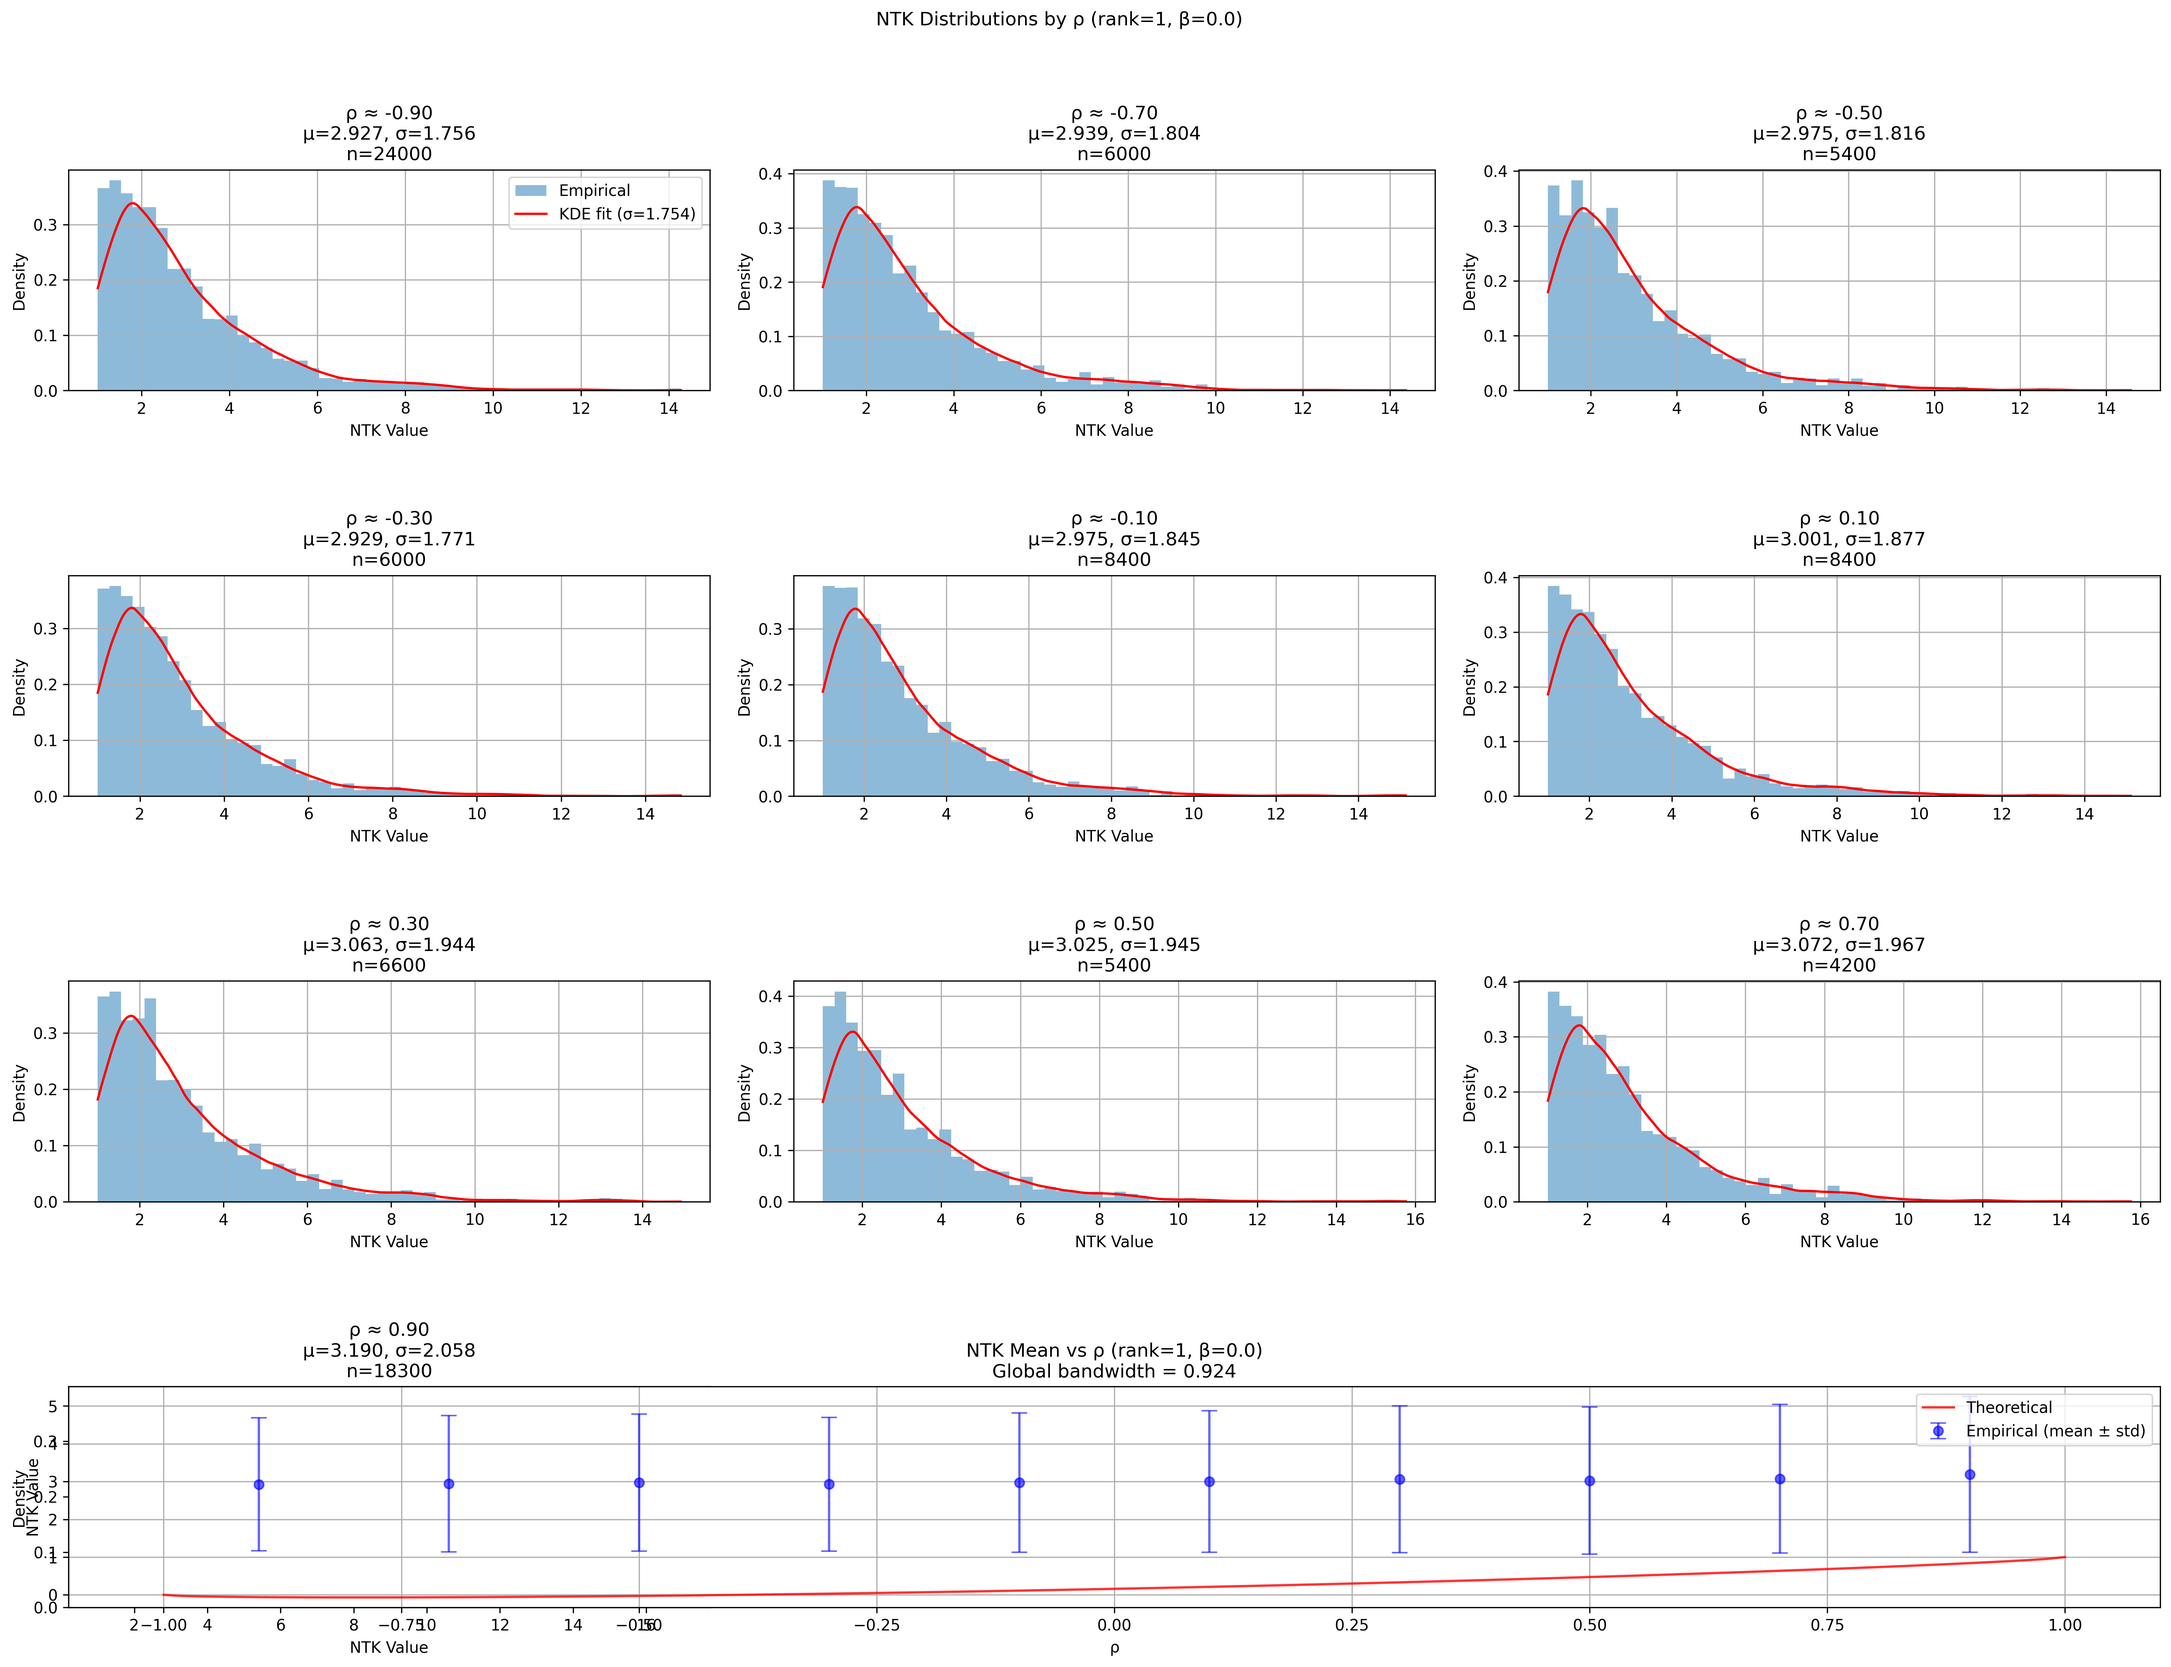
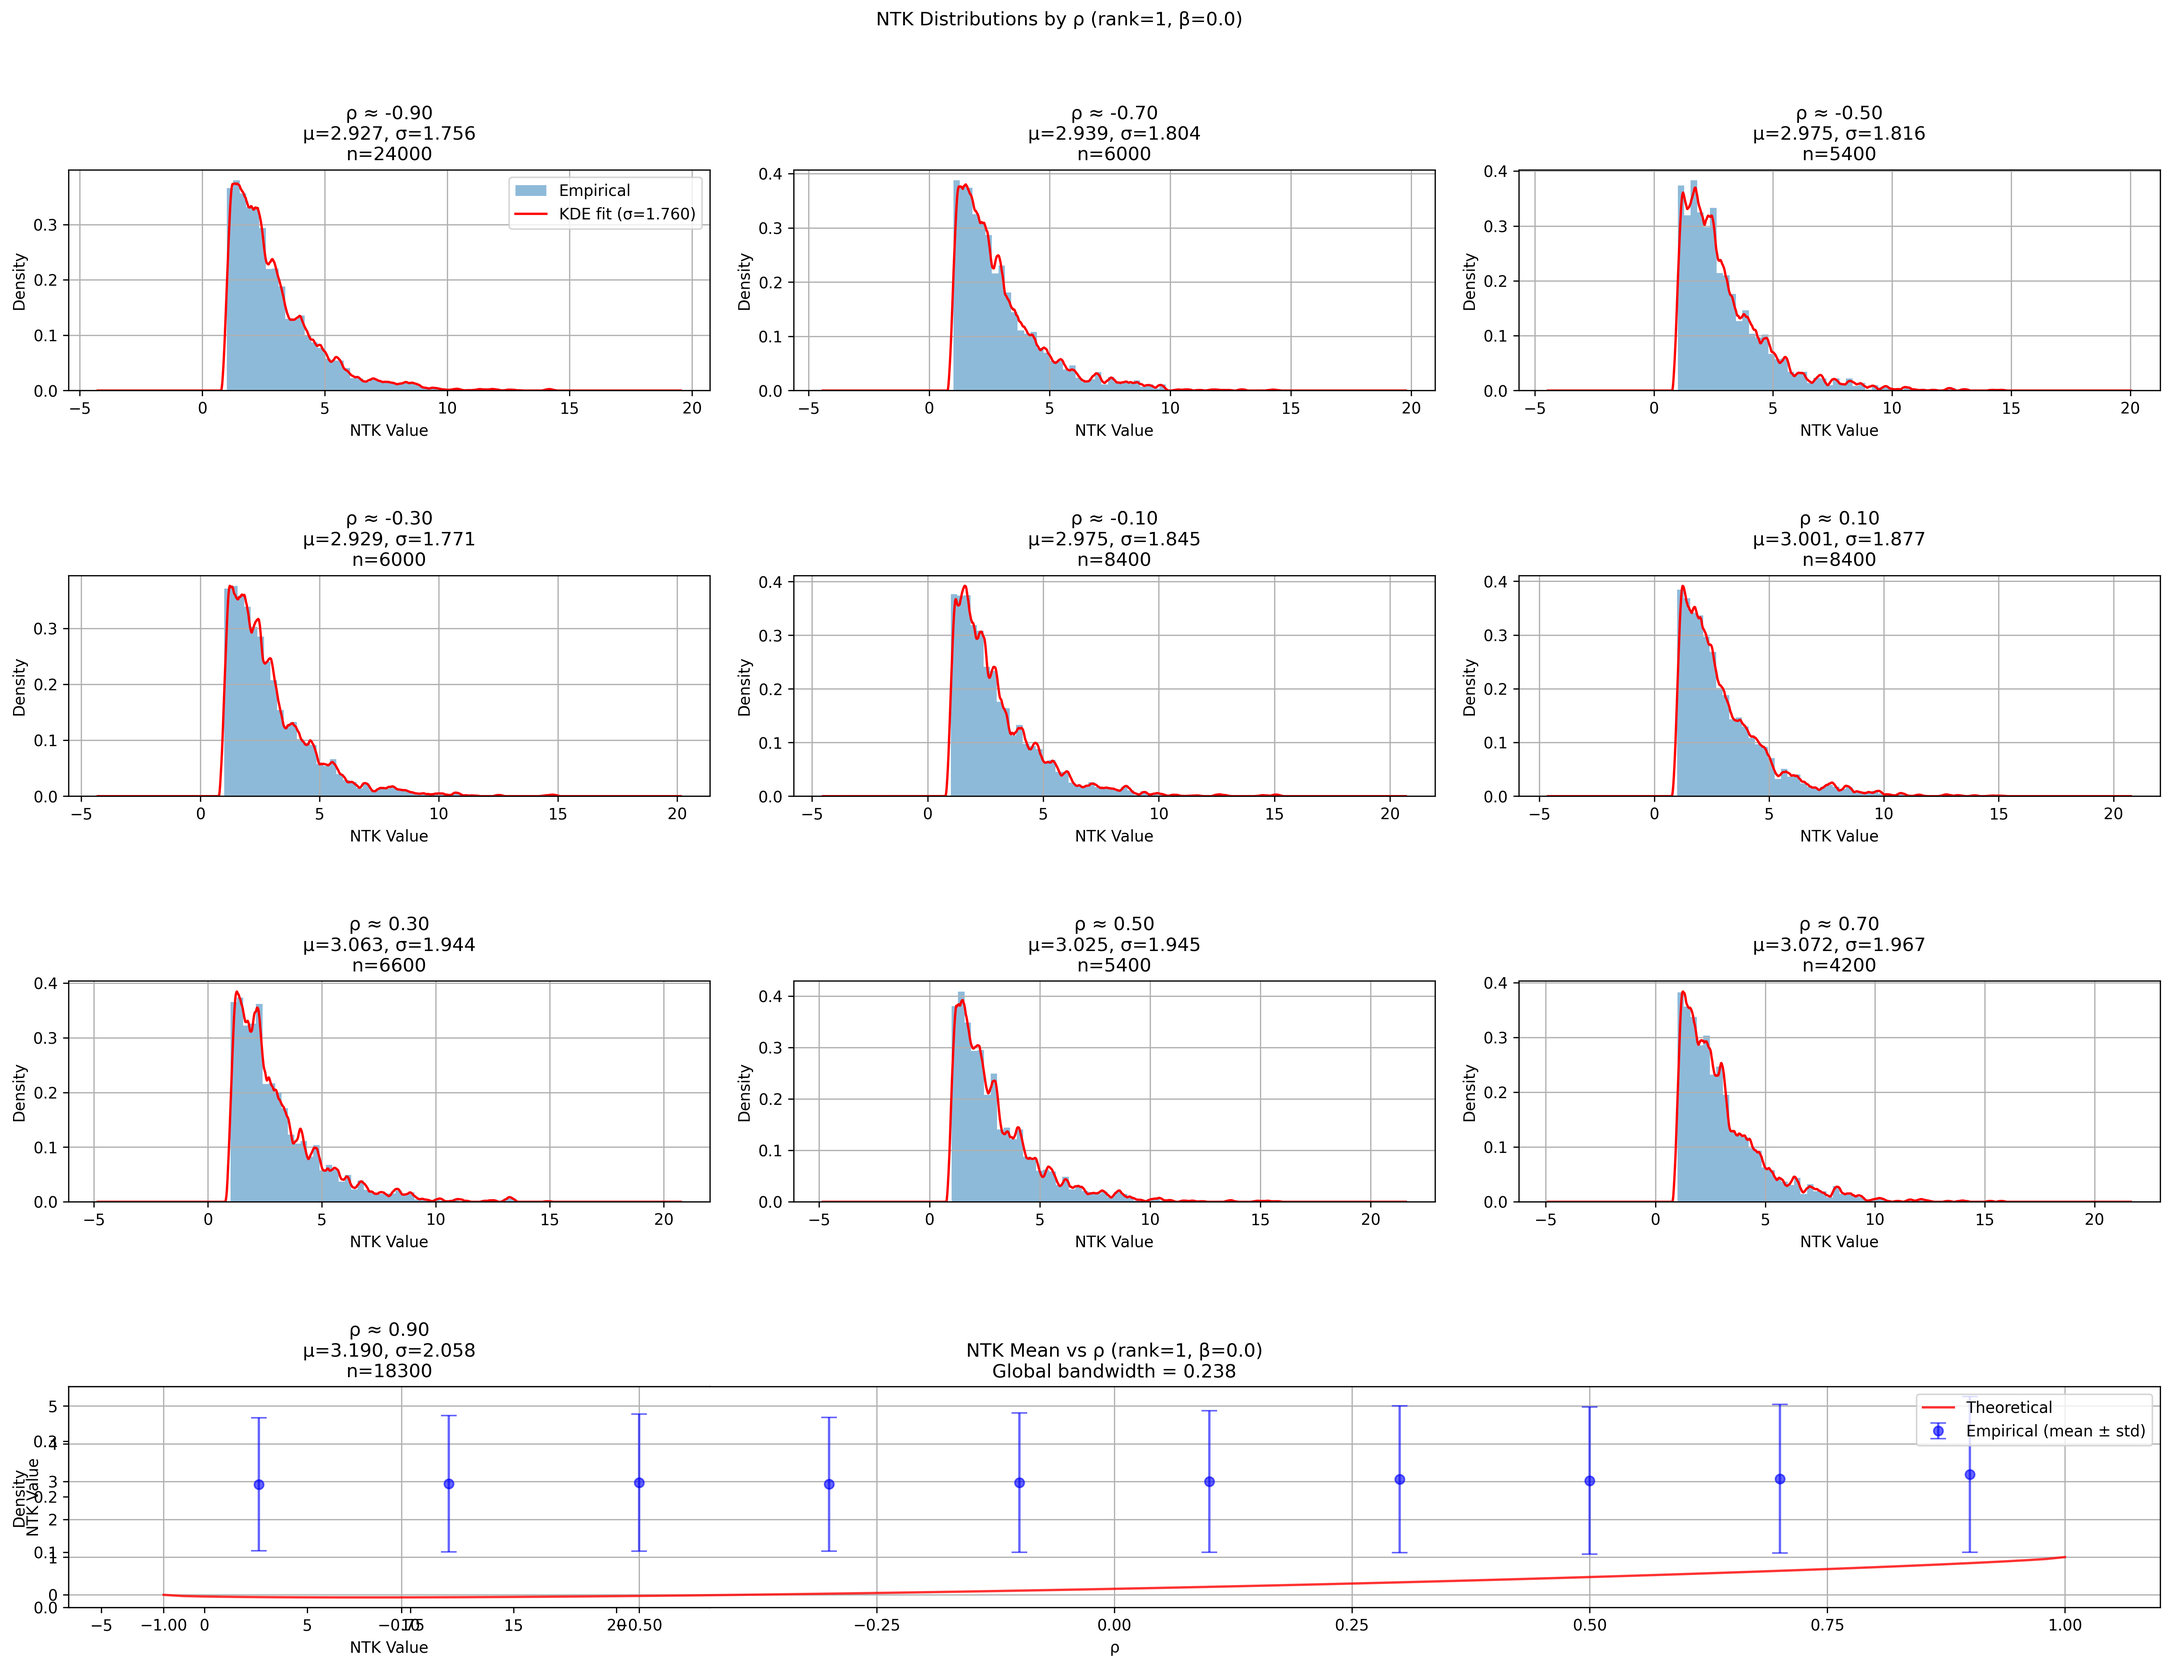
with the silverman rule now, without getting more than the mean so great plot, low dim plot to be sure of the scaling with rho

diff --git a/experiments/extract_ntk_law.py b/experiments/extract_ntk_law.py
@@ -119,8 +119,8 @@ def analyze_ntk_distribution(rank, beta, kernel='gaussian', bandwidth=0.2):
                     # we collect values
                     for i in range(n):
                         for j in range(n):
-                            ntk_values.extend(samples[:, i, j])
-                            dot_products.extend([dots[i, j]] * len(samples))
+                            ntk_values.extend(samples[:, i, j].tolist())  # we convert to list
+                            dot_products.extend([float(dots[i, j])] * len(samples))  # we ensure float
     
     if not ntk_values:
         return
@@ -137,43 +137,27 @@ def analyze_ntk_distribution(rank, beta, kernel='gaussian', bandwidth=0.2):
         if len(ntk_in_bin) > 0:
             distributions_by_rho[rho_center] = {
                 'values': ntk_in_bin,
-                'mean': np.mean(ntk_in_bin),
-                'std': np.std(ntk_in_bin)
+                'mean': float(np.mean(ntk_in_bin)),  # we ensure float
+                'std': float(np.std(ntk_in_bin))     # we ensure float
             }
     
-    # we optimize a global bandwidth to match std across all bins
-    def global_fit_bandwidth(bw):
-        total_error = 0
-        for rho in distributions_by_rho:
-            values = distributions_by_rho[rho]['values']
-            emp_std = distributions_by_rho[rho]['std']
-            
-            kde = KernelDensity(kernel=kernel, bandwidth=bw)
-            kde.fit(values.reshape(-1, 1))
-            x_grid = np.linspace(min(values), max(values), 1000).reshape(-1, 1)
-            log_dens = kde.score_samples(x_grid)
-            dens = np.exp(log_dens)
-            
-            # we compute std of fitted distribution
-            x_grid = x_grid.flatten()
-            fitted_mean = np.sum(x_grid * dens) / np.sum(dens)
-            fitted_std = np.sqrt(np.sum((x_grid - fitted_mean)**2 * dens) / np.sum(dens))
-            
-            # we add squared relative error
-            total_error += ((fitted_std - emp_std) / emp_std) ** 2
-            
-        return np.sqrt(total_error / len(distributions_by_rho))  # we return RMSE
+    # we compute optimal bandwidth using Silverman's rule for each bin
+    def compute_silverman_bandwidth(data):
+        n = len(data)
+        sigma = np.std(data)
+        iqr = np.percentile(data, 75) - np.percentile(data, 25)
+        # we use min to be robust to outliers
+        scale = min(sigma, iqr/1.34)
+        return 0.9 * scale * n**(-0.2)
+
+    # we compute average Silverman bandwidth across all bins
+    all_bandwidths = []
+    for rho in distributions_by_rho:
+        values = distributions_by_rho[rho]['values']
+        if len(values) > 1:
+            all_bandwidths.append(compute_silverman_bandwidth(values))
     
-    # we use Silverman's rule of thumb as initial guess on all data
-    n = len(ntk_values)
-    initial_bw = 1.06 * np.std(ntk_values) * n**(-1/5)
-    
-    # we optimize bandwidth
-    from scipy.optimize import minimize_scalar
-    opt_result = minimize_scalar(global_fit_bandwidth, 
-                               bounds=(initial_bw/10, initial_bw*10), 
-                               method='bounded')
-    optimal_bw = opt_result.x
+    optimal_bw = float(np.mean(all_bandwidths))
     
     # we create figure for distributions by rho
     fig = plt.figure(figsize=(20, 15))
@@ -182,26 +166,31 @@ def analyze_ntk_distribution(rank, beta, kernel='gaussian', bandwidth=0.2):
     # we plot distributions for each rho bin with optimal bandwidth
     for i, rho in enumerate(sorted(distributions_by_rho.keys())):
         values = distributions_by_rho[rho]['values']
-        emp_mean = distributions_by_rho[rho]['mean']
-        emp_std = distributions_by_rho[rho]['std']
+        emp_mean = float(np.mean(values))
+        emp_std = float(np.std(values))
         
         plt.subplot(gs[i//3, i%3])
         
-        # we plot histogram
+        # we plot normalized histogram
         plt.hist(values, bins=50, density=True, alpha=0.5, label='Empirical')
         
-        # we fit and plot KDE with optimal bandwidth
         if len(values) > 1:
             kde = KernelDensity(kernel=kernel, bandwidth=optimal_bw)
-            kde.fit(values.reshape(-1, 1))
-            x_grid = np.linspace(min(values), max(values), 1000).reshape(-1, 1)
-            log_dens = kde.score_samples(x_grid)
+w            kde.fit(values.reshape(-1, 1))
+            
+            # we extend grid for better visualization
+            x_grid = np.linspace(min(values) - 3*emp_std, max(values) + 3*emp_std, 2000)
+            log_dens = kde.score_samples(x_grid.reshape(-1, 1))
             dens = np.exp(log_dens)
             
-            # we compute fitted std for this bin
-            x_grid = x_grid.flatten()
-            fitted_mean = np.sum(x_grid * dens) / np.sum(dens)
-            fitted_std = np.sqrt(np.sum((x_grid - fitted_mean)**2 * dens) / np.sum(dens))
+            # we ensure proper normalization
+            dx = x_grid[1] - x_grid[0]
+            dens = dens / (np.sum(dens) * dx)
+            
+            # we compute moments for verification
+            fitted_mean = float(np.sum(x_grid * dens) * dx)
+            fitted_var = float(np.sum((x_grid - fitted_mean)**2 * dens) * dx)
+            fitted_std = float(np.sqrt(fitted_var))
             
             plt.plot(x_grid, dens, 'r-', 
                     label=f'KDE fit (σ={fitted_std:.3f})')
@@ -243,30 +232,101 @@ def analyze_ntk_distribution(rank, beta, kernel='gaussian', bandwidth=0.2):
     plt.close()
     
     # we print statistics
-    print(f"\nStatistics for rank={rank}, β={beta} (global bandwidth = {optimal_bw:.3f}):")
+    print(f"\nStatistics for rank={rank}, β={beta} (bandwidth = {optimal_bw:.3f}):")
     print("-" * 120)
     print(f"{'ρ':^10} | {'Count':^8} | {'Emp Mean':^12} | {'Emp Std':^12} | {'KDE Std':^12} | {'Theory':^12} | {'Diff':^12}")
     print("-" * 120)
     for rho in sorted(distributions_by_rho.keys()):
         values = distributions_by_rho[rho]['values']
-        emp_mean = distributions_by_rho[rho]['mean']
-        emp_std = distributions_by_rho[rho]['std']
+        emp_mean = float(np.mean(values))
+        emp_std = float(np.std(values))
         
         # we compute KDE std for this bin
         kde = KernelDensity(kernel=kernel, bandwidth=optimal_bw)
         kde.fit(values.reshape(-1, 1))
-        x_grid = np.linspace(min(values), max(values), 1000).reshape(-1, 1)
-        log_dens = kde.score_samples(x_grid)
+        x_grid = np.linspace(min(values) - 3*emp_std, max(values) + 3*emp_std, 2000)
+        log_dens = kde.score_samples(x_grid.reshape(-1, 1))
         dens = np.exp(log_dens)
-        x_grid = x_grid.flatten()
-        fitted_mean = np.sum(x_grid * dens) / np.sum(dens)
-        fitted_std = np.sqrt(np.sum((x_grid - fitted_mean)**2 * dens) / np.sum(dens))
+        dx = x_grid[1] - x_grid[0]
+        dens = dens / (np.sum(dens) * dx)
+        
+        fitted_mean = float(np.sum(x_grid * dens) * dx)
+        fitted_var = float(np.sum((x_grid - fitted_mean)**2 * dens) * dx)
+        fitted_std = float(np.sqrt(fitted_var))
         
         theo_val = ntk_formula(rho, beta)
         diff = emp_mean - theo_val
         print(f"{rho:^10.3f} | {len(values):^8d} | {emp_mean:^12.3f} | {emp_std:^12.3f} | "
               f"{fitted_std:^12.3f} | {theo_val:^12.3f} | {diff:^12.3f}")
     print("-" * 120)
+
+    # we store min values for later analysis
+    return {
+        'beta': beta,
+        'rank': rank,
+        'min_values': {rho: np.min(distributions_by_rho[rho]['values']) for rho in distributions_by_rho}
+    }
+
+# %%
+# we analyze distributions and collect min values
+min_value_data = []
+for rank in ranks:
+    for beta in betas:
+        for kernel in KERNELS:
+            result = analyze_ntk_distribution(rank, beta, kernel)
+            if result is not None:
+                min_value_data.append(result)
+
+# we plot min values vs rank for each beta
+plt.figure(figsize=(15, 10))
+
+for beta in betas:
+    beta_data = [d for d in min_value_data if d['beta'] == beta]
+    if beta_data:
+        ranks_for_beta = sorted([d['rank'] for d in beta_data])
+        
+        # we collect min values across all rhos for each rank
+        min_vals = []
+        for rank in ranks_for_beta:
+            rank_data = next(d for d in beta_data if d['rank'] == rank)
+            min_vals.append(min(rank_data['min_values'].values()))
+        
+        plt.subplot(121)
+        plt.plot(ranks_for_beta, min_vals, 'o-', label=f'β={beta}')
+
+        plt.subplot(122)
+        plt.loglog(ranks_for_beta, min_vals, 'o-', label=f'β={beta}')
+
+plt.subplot(121)
+plt.title('Minimum NTK Value vs Rank')
+plt.xlabel('Rank')
+plt.ylabel('Min NTK Value')
+plt.grid(True)
+plt.legend()
+
+plt.subplot(122)
+plt.title('Minimum NTK Value vs Rank (log-log)')
+plt.xlabel('Rank')
+plt.ylabel('Min NTK Value')
+plt.grid(True)
+plt.legend()
+
+plt.tight_layout()
+plt.savefig(os.path.join(output_dir, 'min_ntk_vs_rank.png'), bbox_inches='tight', dpi=300)
+plt.close()
+
+# we print min value analysis
+print("\nMinimum NTK Value Analysis:")
+print("-" * 80)
+print(f"{'β':^10} | {'Rank':^10} | {'Min Value':^15} | {'ρ at min':^15}")
+print("-" * 80)
+for data in min_value_data:
+    beta = data['beta']
+    rank = data['rank']
+    min_val = min(data['min_values'].values())
+    rho_at_min = min(data['min_values'].items(), key=lambda x: x[1])[0]
+    print(f"{beta:^10.2f} | {rank:^10d} | {min_val:^15.3f} | {rho_at_min:^15.3f}")
+print("-" * 80)
 
 # %%
 # we analyze distributions for each rank and beta
